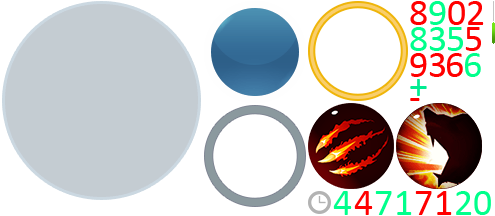
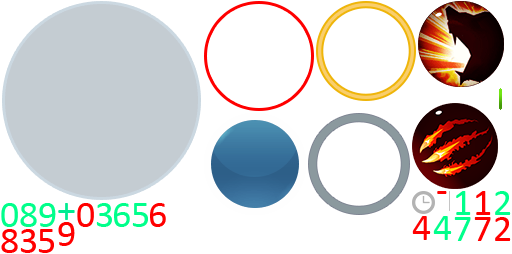
增加地方脚底红圈提示

diff --git a/Client/src/Model/View/VEntity.ts b/Client/src/Model/View/VEntity.ts
@@ -75,6 +75,7 @@ export abstract class VEntity {
 		this.AfterLoadDef(defs);
 
 		const cdefs = this.LoadCDef();
+		
 		this._modelLevel = Hashtable.GetNumber(cdefs, "model_layer");
 		this._hudOffsetY = Hashtable.GetNumber(cdefs, "hud_offset_y");
 		this._pivot = Hashtable.GetVec2(cdefs, "pivot") || new Vec2(0.5, 0.5);
@@ -85,6 +86,7 @@ export abstract class VEntity {
 			this._animationProxy.setPivot(this._pivot.x, this._pivot.y);
 			this._root.addChild(this._animationProxy);
 		}
+		
 		this.AfterLoadCDef(cdefs);
 	}
 

diff --git a/Client/bin/js/Model/View/VChampion.js b/Client/bin/js/Model/View/VChampion.js
@@ -166,6 +166,10 @@ define(["require", "exports", "../../Global", "../../RC/Framework/FSM/FSM", "../
         GetSkillAt(index) {
             return this._skills[index];
         }
+        ShowDecal() {
+            const decal = fairygui.UIPackage.createObject("battle", "decal").asCom;
+            this.root.addChildAt(decal, 0);
+        }
     }
     exports.VChampion = VChampion;
 });

diff --git a/Client/bin/js/Model/View/VBattle.js b/Client/bin/js/Model/View/VBattle.js
@@ -185,6 +185,9 @@ define(["require", "exports", "../../Consts", "../../Global", "../../Libs/protob
                 this._camera.lookAt = champion;
                 this._camera.UpdatePos();
             }
+            else {
+                champion.ShowDecal();
+            }
             return champion;
         }
         DestroyChampion(champion) {

diff --git a/Client/src/Model/View/VChampion.ts b/Client/src/Model/View/VChampion.ts
@@ -209,4 +209,9 @@ export class VChampion extends VEntity {
 	public GetSkillAt(index: number): Skill {
 		return this._skills[index];
 	}
+
+	public ShowDecal(): void {
+		const decal = fairygui.UIPackage.createObject("battle", "decal").asCom;
+		this.root.addChildAt(decal, 0);
+	}
 }

diff --git a/Client/src/Model/View/VBattle.ts b/Client/src/Model/View/VBattle.ts
@@ -284,6 +284,9 @@ export class VBattle {
 			this._camera.lookAt = champion;
 			this._camera.UpdatePos();
 		}
+		else{
+			champion.ShowDecal();
+		}
 		return champion;
 	}
 
